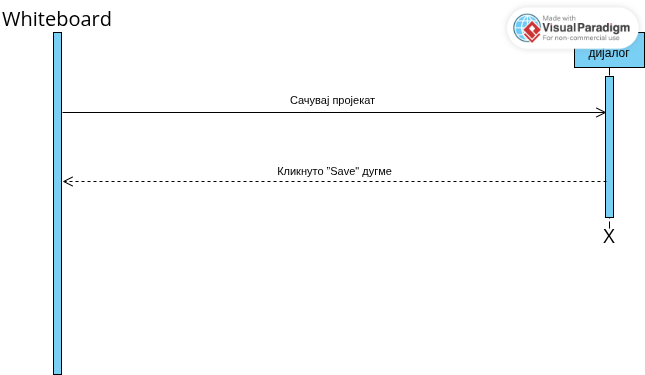
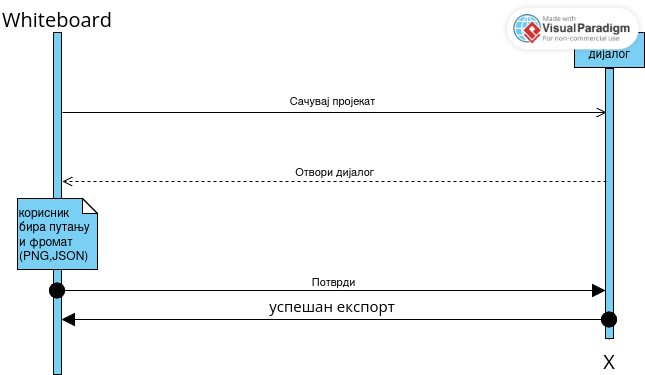
added uml sequence diagram for save project

diff --git a/src/core/graph/diagram_graph.cpp b/src/core/graph/diagram_graph.cpp
@@ -142,16 +142,16 @@ bool DiagramGraph::connection_exists(SharedNodePtr start_node, SharedNodePtr end
         return false;
     }
 
-    auto neighbours = start_node_it->second;
-    for(auto const& [start_node_neighbour, start_end_branch_type] : neighbours){
-        if(start_node_neighbour == end_node && start_end_branch_type == branch_type){
+    auto start_node_neighbours = start_node_it->second;
+    for(auto const& [start_node_neighbour, start_end_branch_type] : start_node_neighbours){
+        if(start_node_neighbour == end_node){
             return true;
         }
     }
 
     if(branch_type == BranchType::ASSOCIATION){
         auto end_node_it = m_diagram.find(end_node);
-        neighbours = end_node_it->second;
+        auto neighbours = end_node_it->second;
         for(auto const& [end_node_neighbour, end_start_branch_type] : neighbours){
             if(end_node_neighbour == start_node && end_start_branch_type == BranchType::ASSOCIATION){
                 return true;
@@ -160,7 +160,7 @@ bool DiagramGraph::connection_exists(SharedNodePtr start_node, SharedNodePtr end
     }
 
     return false;
-}
+    }
 
 #if DEBUG_MODE >=1
 void DiagramGraph::show_diagram(){

diff --git a/src/core/view/signal_processor.cpp b/src/core/view/signal_processor.cpp
@@ -2,6 +2,8 @@
 
 signalProcessor::signalProcessor() {}
 
+
+
 void signalProcessor::add_link_process(CppClassView* child, CppClassView* parent, BranchType branch) const {
     if(child && parent){
         child->add_line_connection(parent, branch);
